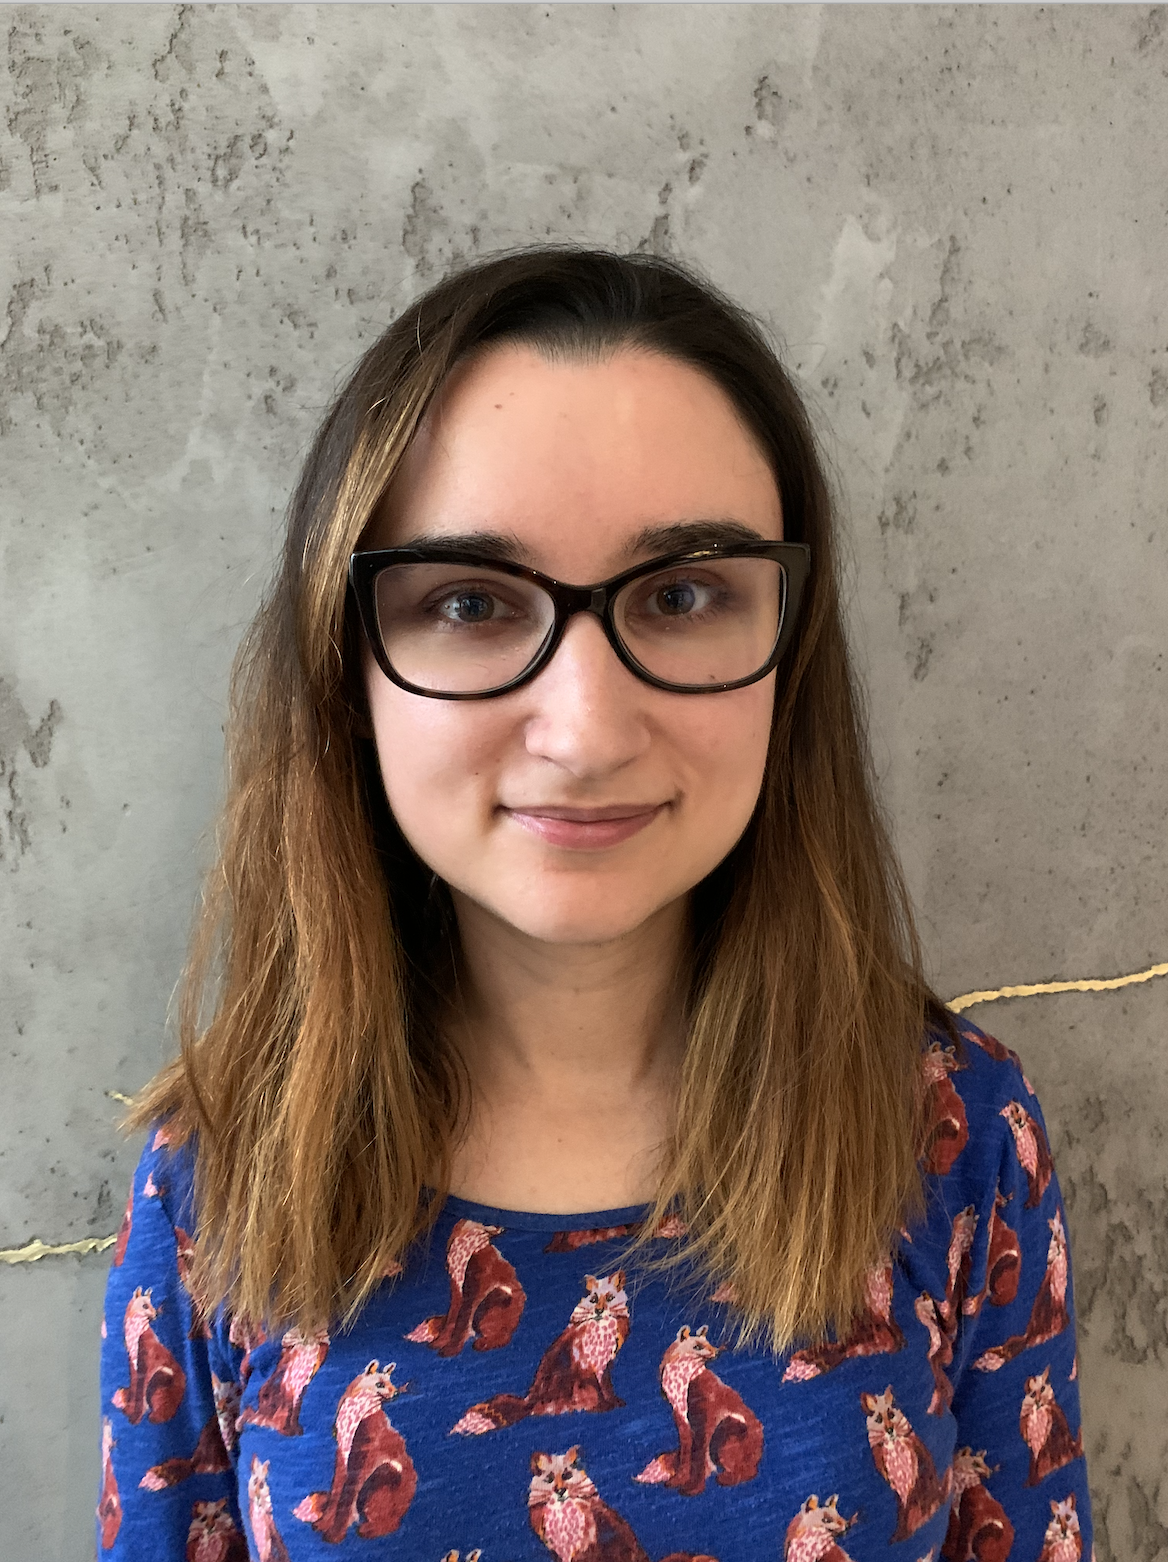
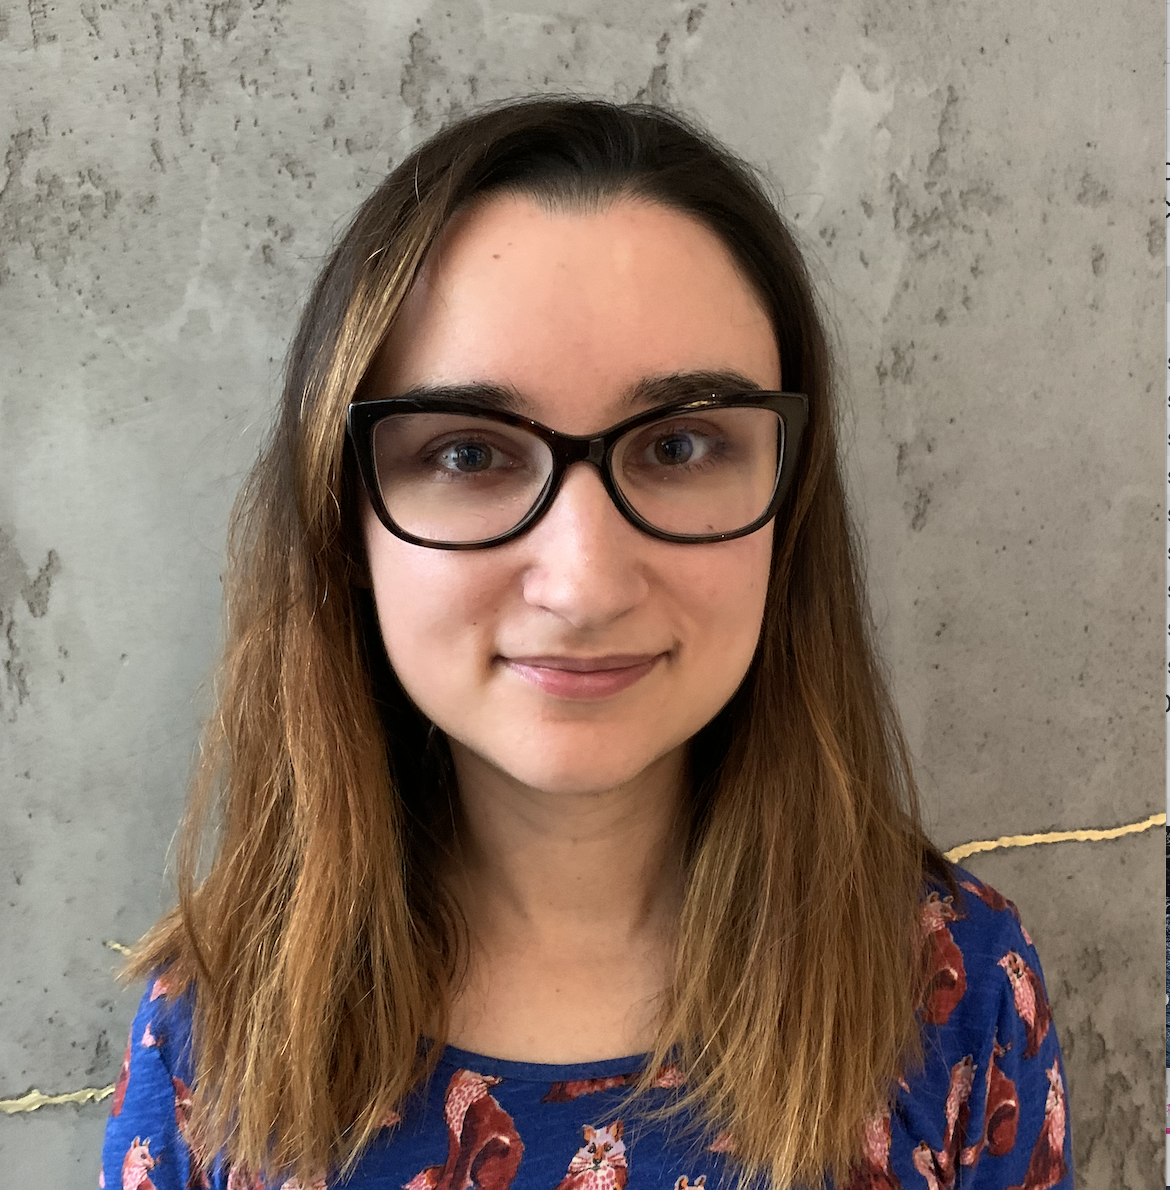
picture style

diff --git a/main.css b/main.css
@@ -84,18 +84,17 @@ nav a:hover{
   padding-top: 1%;
 }
 
-.photo {
+/* .photo {
   display: inline-block;
   width: 20%;
   float: right;
-}
+} */
 
 .photo img {
-  float: right; 
+  float: right;
   width: 300px;
-  height: 400px; 
-  -webkit-clip-path: circle();
-  clip-path: circle();
+  height: 300px; 
+  border-radius: 50%;
 }
 
 
@@ -415,15 +414,16 @@ section.skills .skills-container img {
     margin: 0;
     float: left
   }
+
    .photo img { 
-    width: 190px;
-    height: 350px;
-    margin: -70px;
+    width: 100px;
+    height: 100px;
+    margin: 70px;
   }
 
-  .photo.box {
-    width: 197px;
-    height: 190px;
+  .photo {
+    width: 100px;
+    height: 100px;
     margin-right: 9%;
   }
 
@@ -474,12 +474,12 @@ section.skills .skills-container img {
   .photo img {
     top: 3px; /* equal to border thickness */
     left: 3px;
-    margin: -70px; /* equal to border thickness */
-    width: 190px; /* container height */
-    height: 250px;
+    margin-top: -20px; /* equal to border thickness */
+    width: 200px; /* container height */
+    height: 200px;
   }
 
-  .photo.box {
+  .photo {
     width: 197px;
     height: 190px;
     margin-right: 9%;

diff --git a/index.html b/index.html
@@ -31,7 +31,7 @@
          <!-- About me screen -->
         <section class="about" id="js-about">
             <div class="about box">
-                <div class="photo box">
+                <div class="photo">
                     <img class="profile-img" alt="Profile photo" src="images/profile.png">
                </div>
                <h2 class="blue"><i class="fas fa-user-circle"></i>About</h2>
